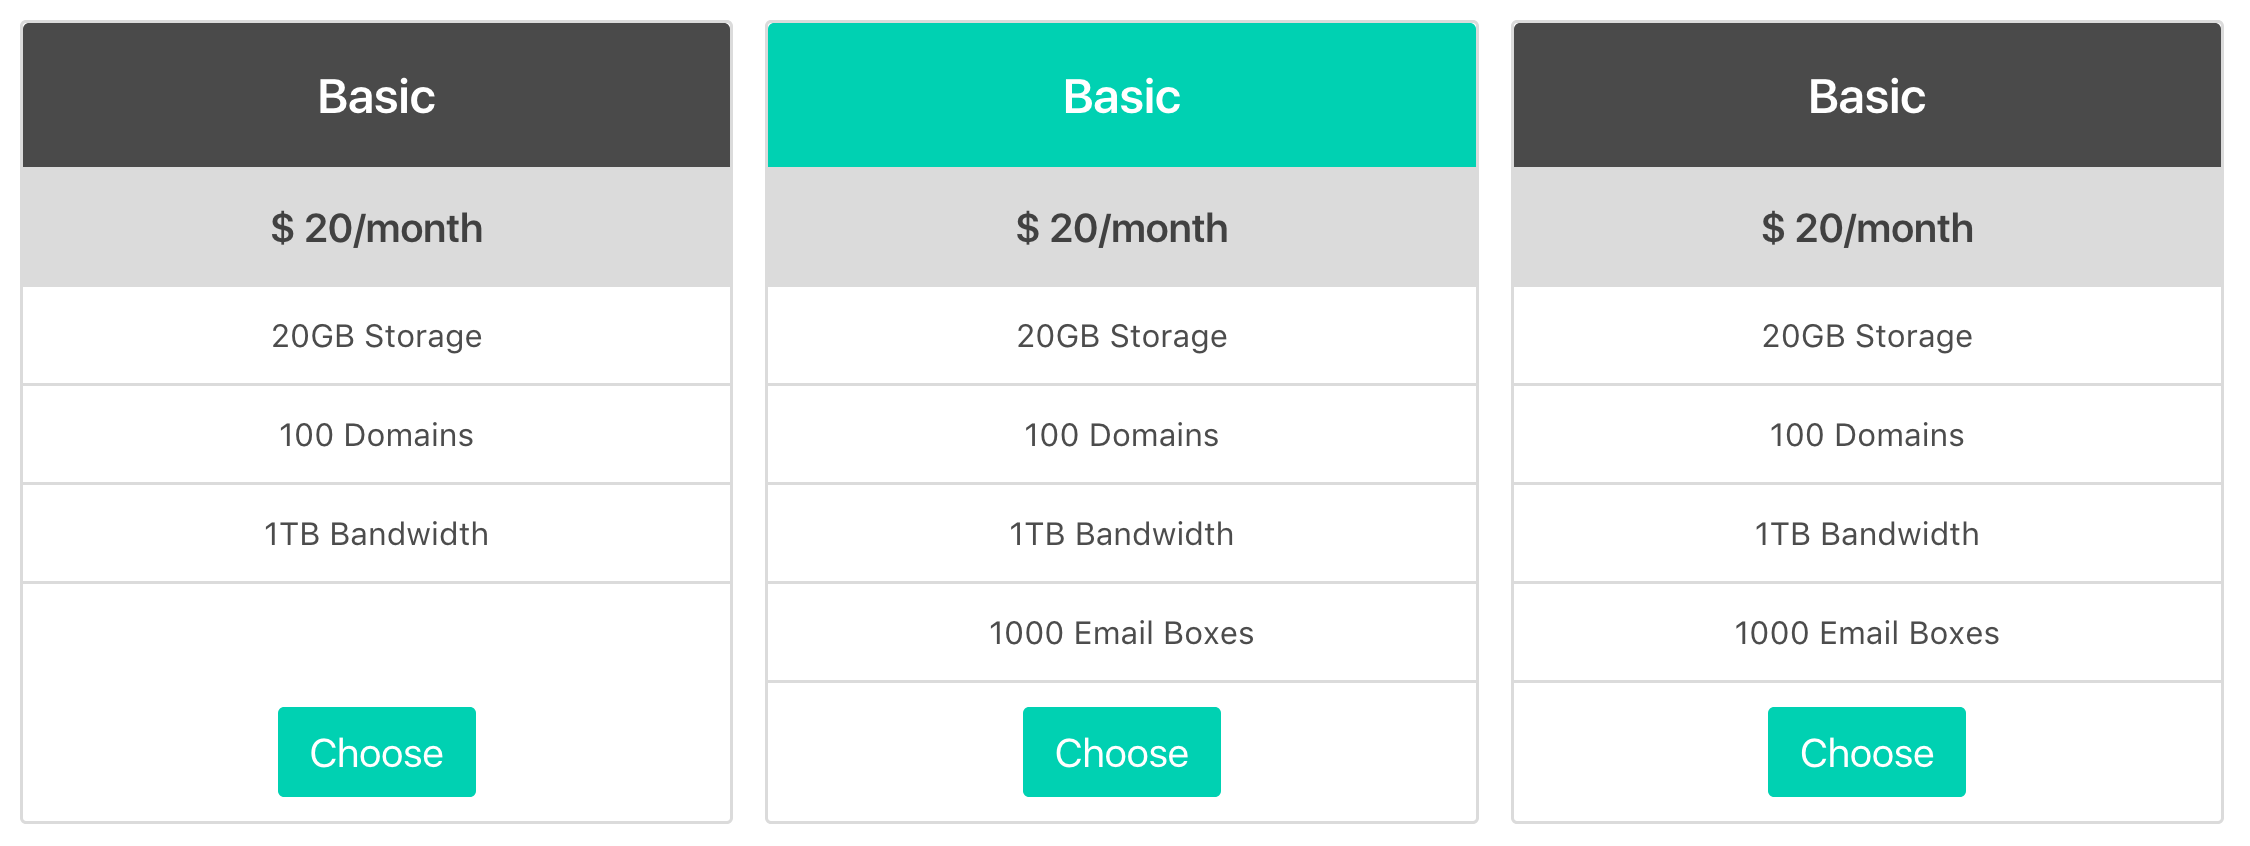
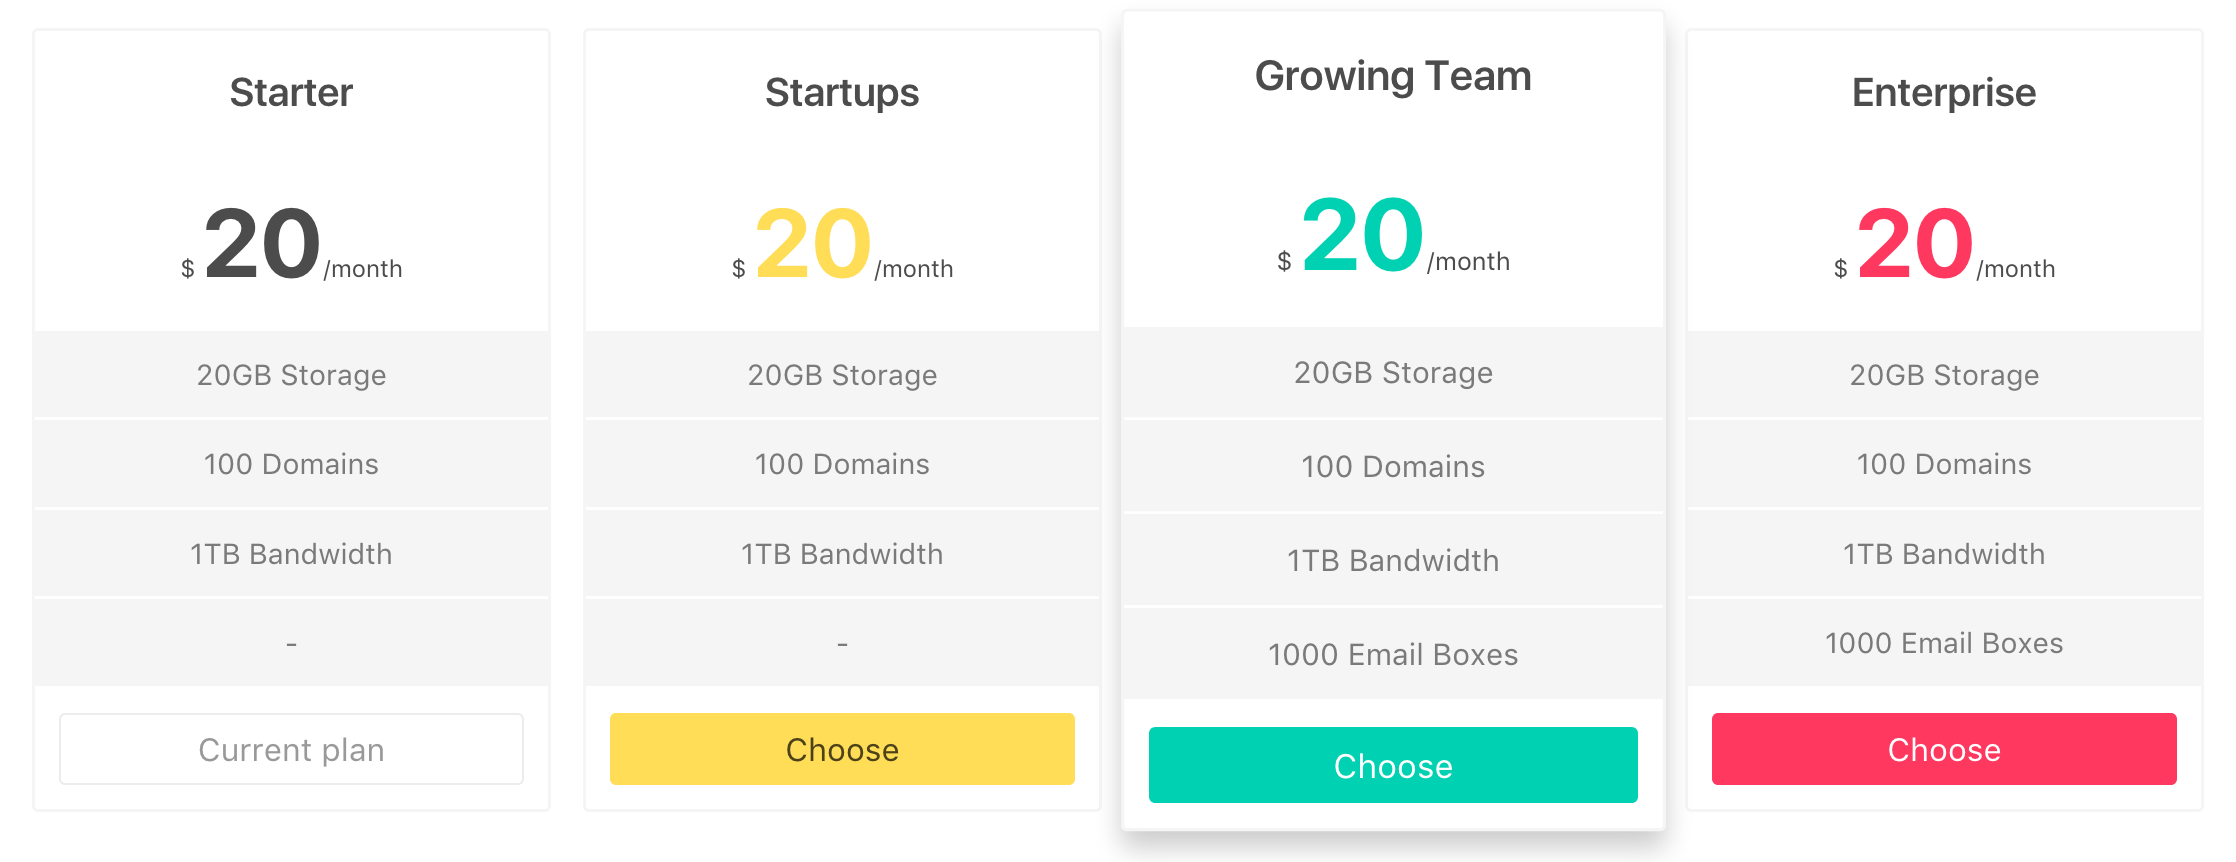
Update screenshot and css

diff --git a/pricing-table.sass b/pricing-table.sass
@@ -1,8 +1,10 @@
-$pricing-plan-border: .1rem solid $grey-lighter !default
+$pricing-plan-border: .1rem solid $white-ter !default
 $pricing-plan-border-radius: $radius !default
-$pricing-header-background: $grey-dark !default
-$pricing-item-border: .1rem solid $grey-lighter !default
-$pricing-price-background: $grey-lighter !default
+$pricing-header-background: $white !default
+$pricing-item-background: $white-ter !default
+$pricing-item-border: .1rem solid $white !default
+$pricing-item-color: $grey !default
+$pricing-price-background: white !default
 
 .pricing-table
   display: flex
@@ -29,27 +31,39 @@ $pricing-price-background: $grey-lighter !default
       border-top-left-radius: $pricing-plan-border-radius
       border-top-right-radius: $pricing-plan-border-radius
       background-color: $pricing-header-background
-      color: $white
-      font-size: $size-large
+      font-size: $size-medium
       font-weight: $weight-semibold
       padding: .75em
       align-content: center
       text-align: center
 
     .plan-item
+      background: $pricing-item-background
       border-bottom: $pricing-item-border
       padding: .75em
       align-content: center
       text-align: center
-      font-size: $size-normal
+      font-size: .9em
+      color: $pricing-item-color
 
     .plan-price
       background-color: $pricing-price-background
-      font-size: $size-medium
-      font-weight: $weight-semibold
+      font-size: $size-small
+      font-weight: $weight-normal
       padding: .75em
       align-content: center
       text-align: center
+
+      .plan-price-amount
+        font-size: $size-2
+        font-weight: $weight-bold
+
+        .plan-price-currency
+          vertical-align: super
+          font-size: $size-normal !important
+          font-weight: $weight-normal !important
+          color: $text
+          margin-right: .25rem
 
     .plan-action
       border-bottom-left-radius: $pricing-plan-border-radius
@@ -60,11 +74,66 @@ $pricing-price-background: $grey-lighter !default
       margin-top: auto
 
     &.is-active
-      .plan-header
-        background-color: $primary
+      box-shadow: 0 8px 12px 0 rgba(0, 0, 0, 0.2)
+      transform: scale(1.05)
+      .plan-price
+        .plan-price-amount
+          color: $primary
+      .plan-action
+        .button
+          background-color: $primary
+          border-color: transparent
+          color: findColorInvert( $primary )
+          &:hover,
+          &.is-hovered
+            background-color: darken($primary, 2.5%)
+            border-color: transparent
+            color: findColorInvert( $primary )
+          &:focus,
+          &.is-focused
+            border-color: transparent
+            box-shadow: 0 0 0.5em rgba($primary, 0.25)
+            color: findColorInvert( $primary )
+          &:active,
+          &.is-active
+            background-color: darken($primary, 5%)
+            border-color: transparent
+            box-shadow: $button-shadow-inset
+            color: findColorInvert( $primary )
+          &[disabled]
+            background-color: $primary
+            border-color: transparent
+            box-shadow: none
 
-  &.is-hoverable
-    .pricing-plan
-      &:hover
-        box-shadow: 0 8px 12px 0 rgba(0, 0, 0, 0.2)
-        transform: scale(1.025)
+    @each $name, $pair in $colors
+      $color: nth($pair, 1)
+      $color-invert: nth($pair, 2)
+      &.is-#{$name}
+        .plan-price
+          .plan-price-amount
+            color: $color
+        .plan-action
+          .button
+            background-color: $color
+            border-color: transparent
+            color: $color-invert
+            &:hover,
+            &.is-hovered
+              background-color: darken($color, 2.5%)
+              border-color: transparent
+              color: $color-invert
+            &:focus,
+            &.is-focused
+              border-color: transparent
+              box-shadow: 0 0 0.5em rgba($color, 0.25)
+              color: $color-invert
+            &:active,
+            &.is-active
+              background-color: darken($color, 5%)
+              border-color: transparent
+              box-shadow: $button-shadow-inset
+              color: $color-invert
+            &[disabled]
+              background-color: $color
+              border-color: transparent
+              box-shadow: none
